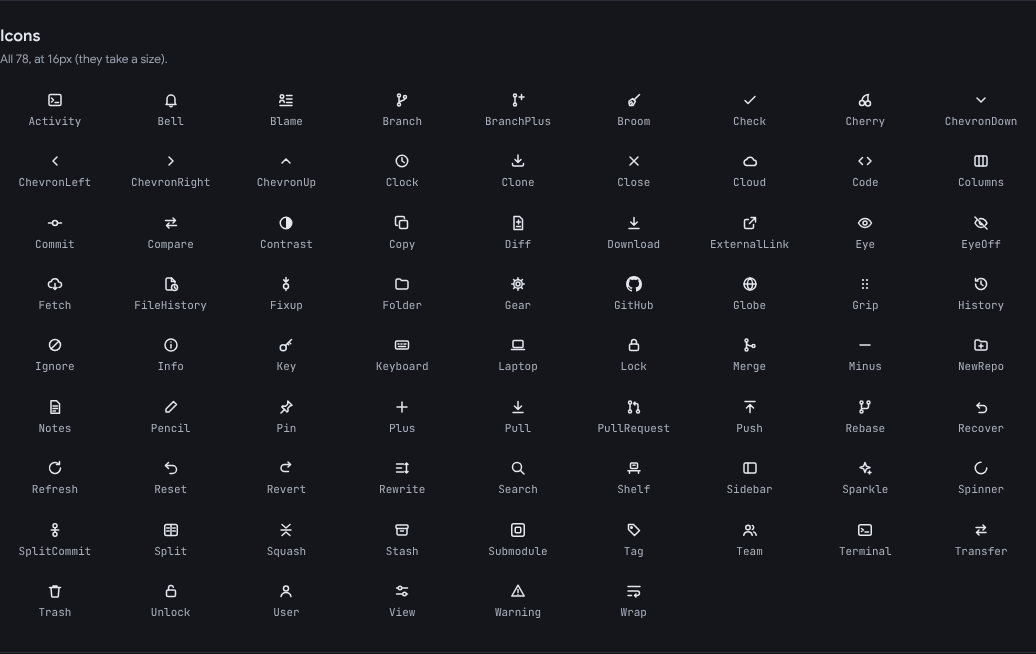
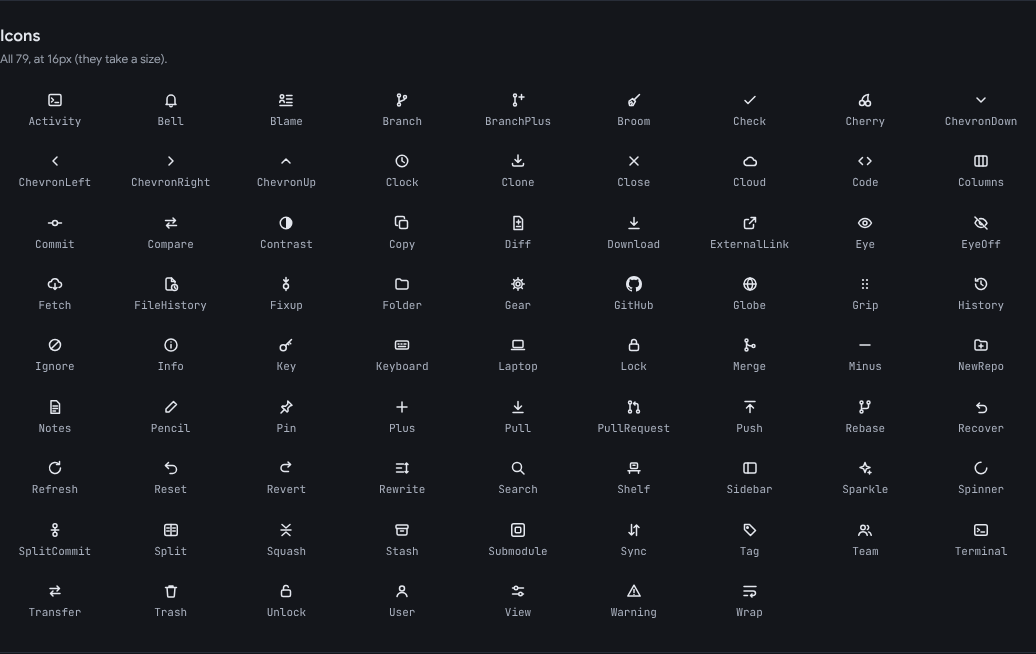
Sync a branch with commits on both sides: pull, then push
When the checked-out branch and the branch it tracks both have new
commits, the toolbar's Push button becomes Sync. Sync fetches, pulls
and then pushes, as one action. It's also in Push's menu and in the
Repository menu, as "Sync (Pull, Then Push)".

If the pull stops for conflicts, nothing is pushed. If a commit the
remote has was rewritten here (amended or rebased after it was
pushed), Sync stops before pulling the old version back in, and the
Force push dialog opens to say so.

Staged changes stop git's merge, so Sync is retried after stashing them,
as a pull is.

diff --git a/src/app/appMenus.tsx b/src/app/appMenus.tsx
@@ -1,7 +1,7 @@
 import { open as openFile } from "@tauri-apps/plugin-dialog";
 import type { Action, CommitRow, InstalledApp, RepoSnapshot } from "../api";
 import { WORKTREE_ID } from "../api";
-import { BranchIcon, BroomIcon, CheckIcon, CloneIcon, CloseIcon, CodeIcon, CommitIcon, CopyIcon, DownloadIcon, ExternalLinkIcon, FetchIcon, FileHistoryIcon, FolderIcon, GearIcon, HistoryIcon, IgnoreIcon, InfoIcon, KeyboardIcon, LockIcon, NewRepoIcon, NotesIcon, PlusIcon, PullIcon, PullRequestIcon, PushIcon, RecoverIcon, RefreshIcon, SearchIcon, ShelfIcon, StashIcon, TagIcon, TerminalIcon, ViewIcon } from "../components/Icons";
+import { BranchIcon, BroomIcon, CheckIcon, CloneIcon, CloseIcon, CodeIcon, CommitIcon, CopyIcon, DownloadIcon, ExternalLinkIcon, FetchIcon, FileHistoryIcon, FolderIcon, GearIcon, HistoryIcon, IgnoreIcon, InfoIcon, KeyboardIcon, LockIcon, NewRepoIcon, NotesIcon, PlusIcon, PullIcon, PullRequestIcon, PushIcon, RecoverIcon, RefreshIcon, SearchIcon, ShelfIcon, StashIcon, SyncIcon, TagIcon, TerminalIcon, ViewIcon } from "../components/Icons";
 import type { NativeMenu } from "../lib/nativeMenu";
 import { isMac } from "../lib/platform";
 import { newPullRequestUrl, openInBrowser, siteName, webRemote } from "../lib/weblinks";
@@ -197,6 +197,7 @@ export function appMenus(ctx: MenuBarContext): AppMenuDefinition[] {
           { id: "fetch", label: "Fetch", icon: <FetchIcon />, enabled: hasRemotes && canChange, run: () => run.act({ kind: "fetch" }, "fetch") },
           { id: "pull", label: "Pull", icon: <PullIcon />, enabled: hasRemotes && canChange && Boolean(snapshot.upstream), run: () => run.act({ kind: "pull" }, "pull") },
           { id: "push", label: "Push", icon: <PushIcon />, enabled: hasRemotes && canChange && Boolean(snapshot.headBranch), run: () => run.act({ kind: "push", force: false }, "push") },
+          { id: "sync", label: "Sync (Pull, Then Push)", icon: <SyncIcon />, keywords: "pull push both diverged", enabled: hasRemotes && canChange && Boolean(snapshot.upstream), run: () => run.act({ kind: "sync" }, "sync") },
           { id: "force-push", label: "Force Push…", icon: <PushIcon />, danger: true, enabled: hasRemotes && canChange && Boolean(snapshot.headBranch), run: () => run.dialog({ kind: "forcePush" }) },
           "-",
           { id: "commit", label: "Commit…", icon: <PlusIcon />, enabled: Boolean(snapshot.worktree) && canChange, run: () => run.select(WORKTREE_ID) },

diff --git a/src/components/Toolbar.tsx b/src/components/Toolbar.tsx
@@ -15,6 +15,7 @@ import {
   GearIcon,
   PullIcon,
   PushIcon,
+  SyncIcon,
   SearchIcon,
   SidebarIcon,
   TeamIcon,
@@ -22,7 +23,7 @@ import {
 import { relativeTime } from "../lib/format";
 import { Button } from "./ui/Button";
 
-export type RemoteAction = "fetch" | "pull" | "push";
+export type RemoteAction = "fetch" | "pull" | "push" | "sync";
 
 export interface SearchState {
   query: string;
@@ -94,7 +95,11 @@ export function Toolbar(props: Props) {
     : !snapshot.upstream
       ? `${snapshot.headBranch} has no upstream branch yet. Push it first.`
       : `Pull ${snapshot.upstream.name} into ${snapshot.headBranch}${behind > 0 ? `: ${describeCount(behind, props.behindCommits)}` : ""}`;
-  const pushTitle = !onBranch
+  // Commits on both sides: a push would be refused, so the button syncs (pulls, then pushes).
+  const diverged = onBranch && hasRemotes && snapshot.upstream !== null && ahead > 0 && behind > 0;
+  const pushTitle = diverged
+    ? `Sync ${snapshot.headBranch} with ${snapshot.upstream?.name}: pull ${describeCount(behind, props.behindCommits)}, then push ${describeCount(ahead, props.aheadCommits)}`
+    : !onBranch
     ? "Check out a branch to push"
     : !hasRemotes
       ? "This repository has no remotes"
@@ -245,9 +250,9 @@ export function Toolbar(props: Props) {
           )}
         </Button>
         <div className="split-button" data-tour="remote">
-          <Button kind="tool" onClick={() => props.onRemote("push")} disabled={pushDisabled} title={pushTitle}>
-            <PushIcon className={running === "push" ? "pulse" : undefined} />
-            <span className="label">Push</span>
+          <Button kind="tool" onClick={() => props.onRemote(diverged ? "sync" : "push")} disabled={pushDisabled} title={pushTitle}>
+            {diverged ? <SyncIcon className={running === "sync" ? "pulse" : undefined} /> : <PushIcon className={running === "push" ? "pulse" : undefined} />}
+            <span className="label">{diverged ? "Sync" : "Push"}</span>
             {ahead > 0 && (
               <span className="count">
                 <span>{ahead}</span>

diff --git a/src/app/listMenus.tsx b/src/app/listMenus.tsx
@@ -2,16 +2,17 @@ import type { Action, CommitRow, RepoSnapshot, Submodule, Worktree } from "../ap
 import type { DetailsAction } from "../components/CommitDetails";
 import type { ColumnOptions } from "../components/CommitList";
 import type { MenuItem } from "../components/ContextMenu";
-import { BroomIcon, ColumnsIcon, CopyIcon, DownloadIcon, FolderIcon, PlusIcon, PushIcon, ResetIcon, StashIcon, SubmoduleIcon, TrashIcon } from "../components/Icons";
+import { BroomIcon, ColumnsIcon, CopyIcon, DownloadIcon, FolderIcon, PlusIcon, PushIcon, ResetIcon, SyncIcon, StashIcon, SubmoduleIcon, TrashIcon } from "../components/Icons";
 import { copyText } from "../lib/clipboard";
 import { isMac } from "../lib/platform";
 import { stashIndexOf } from "../lib/refs";
 import { canResetTo, type OpenDialog } from "../menus";
 
 /** The menu next to Push. */
-export function pushMenuItems(push: () => void, openDialog: (dialog: OpenDialog) => void): MenuItem[] {
+export function pushMenuItems(push: () => void, sync: () => void, openDialog: (dialog: OpenDialog) => void): MenuItem[] {
   return [
     { label: "Push", icon: <PushIcon />, onSelect: push },
+    { label: "Sync: pull, then push", icon: <SyncIcon />, onSelect: sync },
     { label: "Force push…", icon: <PushIcon />, danger: true, separated: true, onSelect: () => openDialog({ kind: "forcePush" }) },
   ];
 }

diff --git a/src/app/useActions.ts b/src/app/useActions.ts
@@ -1,6 +1,6 @@
 import { useCallback, useEffect, useRef, useState, type MutableRefObject } from "react";
 import { onProgress, PAGE_SIZE, runActionFor, type Action, type Outcome, type Progress, type RepoSnapshot } from "../api";
-import { hookFailure, involvesUntrackedFiles, isLocalChangesError, NOT_ENOUGH_SPACE } from "../lib/errors";
+import { hookFailure, involvesUntrackedFiles, isLocalChangesError, NOT_ENOUGH_SPACE, REWRITTEN } from "../lib/errors";
 import { undoFor } from "../lib/undo";
 import { openInBrowser } from "../lib/weblinks";
 import { notifySystem } from "../lib/notify";
@@ -183,6 +183,12 @@ export function useActions({ snapshot, load, protectedHead, openDialog, setError
       }
       if (failure || !outcome) {
         const message = failure ?? "Something went wrong";
+        // A sync stopped before pulling into a branch rewritten since it was pushed: what
+        // it needs is a force push, which is asked for.
+        if (message.startsWith(REWRITTEN)) {
+          openDialog({ kind: "forcePush", reason: `Sync stopped. ${message.slice(REWRITTEN.length).replace(/^[:\s]+/, "")}` });
+          return false;
+        }
         const retry: Action | undefined =
           RETRYABLE.has(action.kind) && isLocalChangesError(message)
             ? { kind: "stashAndRetry", action, includeUntracked: involvesUntrackedFiles(message) }

diff --git a/src/components/ForcePushDialog.tsx b/src/components/ForcePushDialog.tsx
@@ -8,12 +8,14 @@ interface Props {
   snapshot: RepoSnapshot;
   /** The checked-out branch, when it's protected: its name must be typed to go ahead. */
   protectedName?: string | null;
+  /** Why it's asked for, when something stopped for it (a sync, into a rewritten branch). */
+  reason?: string;
   onCancel: () => void;
   onDone: (message: string) => void;
 }
 
 /** Asks for confirmation before `git push --force-with-lease`. */
-export function ForcePushDialog({ snapshot, protectedName, onCancel, onDone }: Props) {
+export function ForcePushDialog({ snapshot, protectedName, reason, onCancel, onDone }: Props) {
   const [typed, setTyped] = useState("");
   const confirmed = !protectedName || typed.trim() === protectedName;
   const [running, setRunning] = useState(false);
@@ -49,6 +51,8 @@ export function ForcePushDialog({ snapshot, protectedName, onCancel, onDone }: P
         </>
       }
     >
+      {/* Why it's asked for (Sync stopped for it), above what it does. */}
+      {reason && <div className="dialog-warning force-push-reason">{reason}</div>}
       <p>
         <strong>{target}</strong> will be replaced with your local <strong>{branch}</strong>.
       </p>

diff --git a/src/app/RepositoryView.tsx b/src/app/RepositoryView.tsx
@@ -63,6 +63,7 @@ const REMOTE_ACTIONS: Record<RemoteAction, Action> = {
   fetch: { kind: "fetch" },
   pull: { kind: "pull" },
   push: { kind: "push", force: false },
+  sync: { kind: "sync" },
 };
 
 interface Props {
@@ -389,7 +390,7 @@ export function RepositoryView(props: Props) {
           onSearchStep={search.step}
           onSearchMode={search.setMode}
           onRemote={(action) => act(REMOTE_ACTIONS[action], action)}
-          onPushMenu={(anchor) => menu.under(anchor, pushMenuItems(() => act({ kind: "push", force: false }, "push"), openDialog))}
+          onPushMenu={(anchor) => menu.under(anchor, pushMenuItems(() => act({ kind: "push", force: false }, "push"), () => act({ kind: "sync" }, "sync"), openDialog))}
           lastFetch={snapshot.lastFetched ? snapshot.lastFetched * 1000 : null}
           sidebarOpen={sidebarOpen}
           onToggleSidebar={() => setSidebarOpen(!sidebarOpen)}

diff --git a/src/app/constants.ts b/src/app/constants.ts
@@ -37,6 +37,7 @@ export const ACTIVITY_SIZE = 300;
 /** Actions that can be retried after stashing when uncommitted changes are in the way. */
 export const RETRYABLE = new Set<Action["kind"]>([
   "pull",
+  "sync",
   "fetchLatest",
   "checkoutBranch",
   "checkoutRemoteBranch",
@@ -57,6 +58,7 @@ export const RUNNING_LABELS: Record<Exclude<Running, "other" | null>, string> = 
   fetch: "Fetching",
   pull: "Pulling",
   push: "Pushing",
+  sync: "Syncing",
   download: "Downloading Git LFS files",
   submodules: "Updating submodules",
   checkout: "Checking out",

diff --git a/src/menus/context.ts b/src/menus/context.ts
@@ -9,7 +9,8 @@ import type { CompareRequest } from "../app/useComparison";
 export type OpenDialog =
   | { kind: "reset"; target: CommitRow }
   | { kind: "newBranch"; target: CommitRow }
-  | { kind: "forcePush" }
+  /** `reason`: why it's asked for, when something stopped for it (a sync, into a rewritten branch). */
+  | { kind: "forcePush"; reason?: string }
   /** Go to Commit (Ctrl+G). */
   | { kind: "goToCommit" }
   /** `paths`: the files to start with (all of them when left out). */

diff --git a/src/components/Icons.tsx b/src/components/Icons.tsx
@@ -624,6 +624,13 @@ export const ClockIcon = (p: IconProps) => (
   </Icon>
 );
 
+/** A down arrow and an up arrow side by side: pulling, then pushing (Sync). */
+export const SyncIcon = (p: IconProps) => (
+  <Icon {...p}>
+    <path d="M5.5 2.5v10.5M3 10.5L5.5 13 8 10.5M10.5 13.5V3M8 5.5L10.5 3 13 5.5" />
+  </Icon>
+);
+
 /** Two arrows passing, for moving settings in and out (export and import). */
 export const TransferIcon = (p: IconProps) => (
   <Icon {...p}>

diff --git a/src/lib/errors.ts b/src/lib/errors.ts
@@ -23,3 +23,5 @@ export function hookFailure(message: string): { hook: string; what: "commit" | "
 
 /** What the backend's message about too little disk space for Git LFS files starts with. */
 export const NOT_ENOUGH_SPACE = "Not enough disk space";
+/** What a sync's error starts with when the branch was amended or rebased after it was pushed (remote.rs). */
+export const REWRITTEN = "Rewritten since it was pushed";

diff --git a/src/api/generated.ts b/src/api/generated.ts
@@ -38,6 +38,7 @@ export type Action =
   | { kind: "fetch"; background?: boolean }
   | { kind: "pull" }
   | { kind: "fetchLatest" }
+  | { kind: "sync" }
   | { kind: "push"; force: boolean; noVerify?: boolean }
   | { kind: "shelve"; paths?: Array<string>; description: string; keep?: boolean }
   | { kind: "restoreFromHistory"; reference: string; paths?: Array<string> }

diff --git a/src/app/Dialogs.tsx b/src/app/Dialogs.tsx
@@ -282,6 +282,7 @@ export function RepositoryDialogs(props: Props) {
     {dialog?.kind === "forcePush" && (
       <ForcePushDialog
         snapshot={snapshot}
+        reason={dialog.reason}
         protectedName={protectedHead}
         onCancel={() => onClose()}
         onDone={(message) => onFinish(message)}
